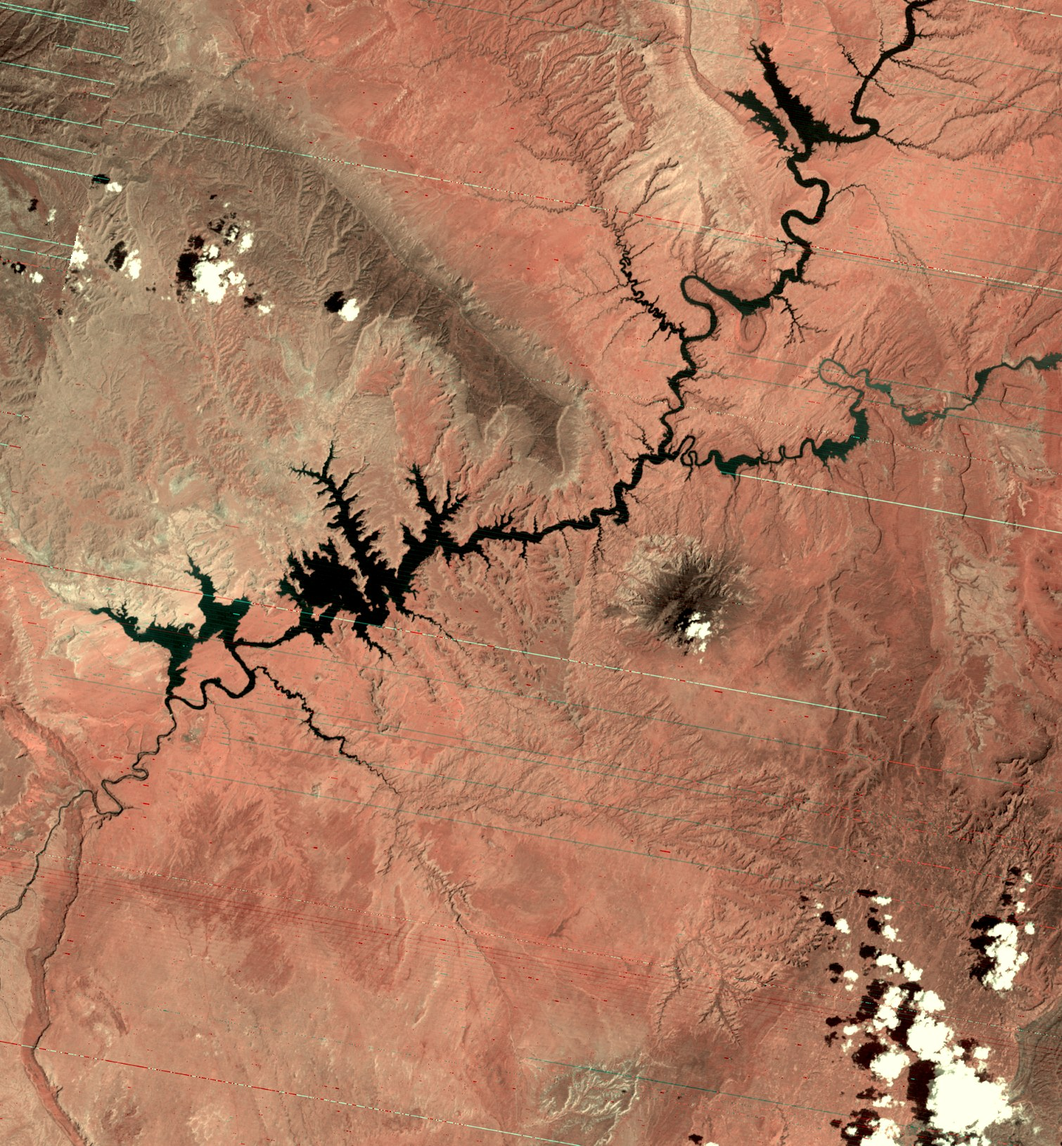
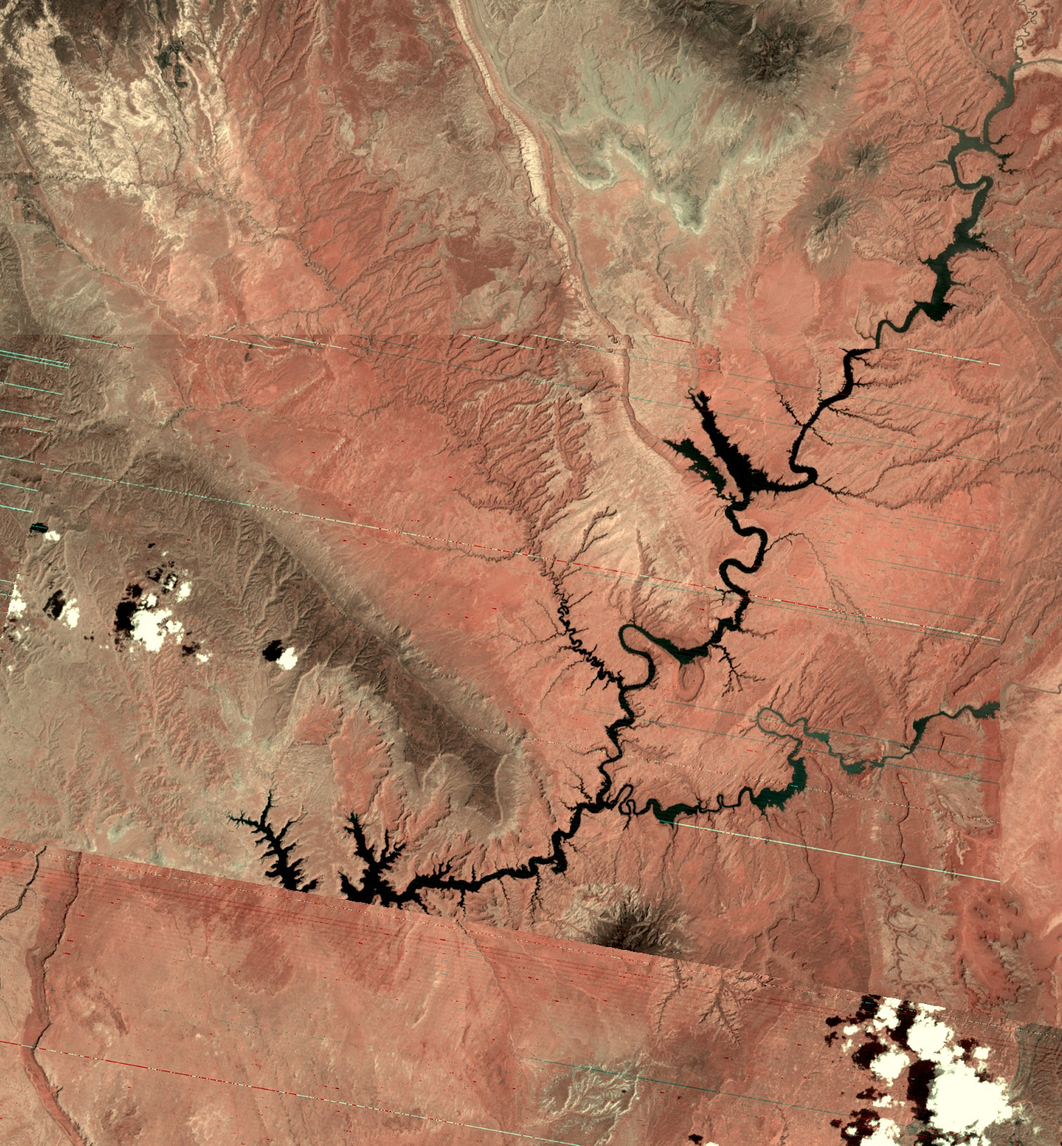
Fix early-era frame quality: alignment, gap-fill, and scene selection
- Per-scene FFT phase-correlation against the 1984 reference corrects
  km-scale L1GS georegistration errors (1973 was ~37 km off)
- Pixel-coverage verification with next-candidate gap fill (STAC footprints
  lie; some MSS products pad voids with DN~1 and an all-clear QA band):
  1982 half-frame void and the 1972 west wedge are now filled
- 2012 Landsat 7 stripes filled by mosaicking a second pass
- Season/georegistration/L7 penalties in candidate scoring; candidate
  breadth 6; all search rungs pooled; scene ids + shifts in the manifest

diff --git a/manifest.js b/manifest.js
@@ -1,1 +1,1 @@
-const TIMELAPSE = {"aoi": [-111.62, 36.85, -110.35, 37.95], "res_m": 75.0, "years": [{"year": 1972, "dates": ["1972-08-05"], "platforms": ["landsat-1"], "sensor": "MSS", "cloud": 9.0, "aoi_cloud": 0.132, "coverage": 0.844, "clear_frac": 0.732, "area_km2": 487.1, "scenes": 1}, {"year": 1973, "dates": ["1973-07-31", "1973-08-01"], "platforms": ["landsat-1"], "sensor": "MSS", "cloud": 4.0, "aoi_cloud": 0.056, "coverage": 1.0, "clear_frac": 0.943, "area_km2": 496.1, "scenes": 3}, {"year": 1974, "dates": ["1974-09-18", "1974-09-19"], "platforms": ["landsat-1"], "sensor": "MSS", "cloud": 8.0, "aoi_cloud": 0.067, "coverage": 1.0, "clear_frac": 0.933, "area_km2": 500.6, "scenes": 4}, {"year": 1975, "dates": ["1975-10-10", "1975-10-11"], "platforms": ["landsat-2"], "sensor": "MSS", "cloud": 0.0, "aoi_cloud": 0.001, "coverage": 1.0, "clear_frac": 0.999, "area_km2": 485.8, "scenes": 4}, {"year": 1976, "dates": ["1976-10-04", "1976-10-14"], "platforms": ["landsat-1", "landsat-2"], "sensor": "MSS", "cloud": 6.0, "aoi_cloud": 0.007, "coverage": 1.0, "clear_frac": 0.993, "area_km2": 457.4, "scenes": 4}, {"year": 1977, "dates": ["1977-06-13", "1977-06-14"], "platforms": ["landsat-2"], "sensor": "MSS", "cloud": 0.0, "aoi_cloud": 0.004, "coverage": 1.0, "clear_frac": 0.996, "area_km2": 470.4, "scenes": 4}, {"year": 1978, "dates": ["1978-08-28", "1978-09-25"], "platforms": ["landsat-2", "landsat-3"], "sensor": "MSS", "cloud": 2.0, "aoi_cloud": 0.001, "coverage": 1.0, "clear_frac": 0.999, "area_km2": 438.3, "scenes": 4}, {"year": 1979, "dates": ["1979-09-10", "1979-09-11"], "platforms": ["landsat-3"], "sensor": "MSS", "cloud": 5.0, "aoi_cloud": 0.005, "coverage": 1.0, "clear_frac": 0.995, "area_km2": 584.7, "scenes": 5}, {"year": 1980, "dates": ["1980-08-08", "1980-08-09"], "platforms": ["landsat-2"], "sensor": "MSS", "cloud": 6.0, "aoi_cloud": 0.0, "coverage": 1.0, "clear_frac": 1.0, "area_km2": 587.0, "scenes": 4}, {"year": 1981, "dates": ["1981-09-26", "1981-09-27"], "platforms": ["landsat-2"], "sensor": "MSS", "cloud": 0.0, "aoi_cloud": 0.002, "coverage": 1.0, "clear_frac": 0.998, "area_km2": 522.2, "scenes": 4}, {"year": 1982, "dates": ["1982-10-18", "1982-10-19"], "platforms": ["landsat-3"], "sensor": "MSS", "cloud": 12.0, "aoi_cloud": 0.035, "coverage": 1.0, "clear_frac": 0.965, "area_km2": 272.4, "scenes": 4}, {"year": 1983, "dates": ["1983-09-05", "1983-09-12"], "platforms": ["landsat-4"], "sensor": "MSS", "cloud": 0.0, "aoi_cloud": 0.0, "coverage": 1.0, "clear_frac": 1.0, "area_km2": 598.5, "scenes": 4}, {"year": 1984, "dates": ["1984-06-27", "1984-07-04"], "platforms": ["landsat-5"], "cloud": 2.0, "aoi_cloud": 0.0, "coverage": 1.0, "clear_frac": 1.0, "area_km2": 543.5, "scenes": 4}, {"year": 1985, "dates": ["1985-09-25", "1985-10-04"], "platforms": ["landsat-5"], "cloud": 0.0, "aoi_cloud": 0.0, "coverage": 1.0, "clear_frac": 1.0, "area_km2": 501.5, "scenes": 3}, {"year": 1986, "dates": ["1986-07-26", "1986-08-04"], "platforms": ["landsat-5"], "cloud": 2.0, "aoi_cloud": 0.002, "coverage": 1.0, "clear_frac": 0.998, "area_km2": 531.5, "scenes": 4}, {"year": 1987, "dates": ["1987-07-13"], "platforms": ["landsat-5"], "cloud": 3.0, "aoi_cloud": 0.004, "coverage": 1.0, "clear_frac": 0.996, "area_km2": 530.1, "scenes": 2}, {"year": 1988, "dates": ["1988-08-09", "1988-09-17"], "platforms": ["landsat-5"], "cloud": 4.0, "aoi_cloud": 0.0, "coverage": 1.0, "clear_frac": 1.0, "area_km2": 504.6, "scenes": 4}, {"year": 1989, "dates": ["1989-06-25", "1989-07-18"], "platforms": ["landsat-5"], "cloud": 1.0, "aoi_cloud": 0.0, "coverage": 1.0, "clear_frac": 1.0, "area_km2": 482.9, "scenes": 4}, {"year": 1990, "dates": ["1990-08-22"], "platforms": ["landsat-5"], "cloud": 2.0, "aoi_cloud": 0.002, "coverage": 0.984, "clear_frac": 0.981, "area_km2": 407.3, "scenes": 2}, {"year": 1991, "dates": ["1991-08-25", "1991-09-03"], "platforms": ["landsat-5"], "cloud": 2.0, "aoi_cloud": 0.002, "coverage": 1.0, "clear_frac": 0.998, "area_km2": 388.5, "scenes": 3}, {"year": 1992, "dates": ["1992-10-07", "1992-10-14"], "platforms": ["landsat-5"], "cloud": 0.0, "aoi_cloud": 0.001, "coverage": 1.0, "clear_frac": 0.999, "area_km2": 393.9, "scenes": 4}, {"year": 1993, "dates": ["1993-09-08", "1993-09-15"], "platforms": ["landsat-5"], "cloud": 1.0, "aoi_cloud": 0.003, "coverage": 1.0, "clear_frac": 0.997, "area_km2": 440.1, "scenes": 3}, {"year": 1994, "dates": ["1994-07-09", "1994-07-16"], "platforms": ["landsat-5"], "cloud": 0.0, "aoi_cloud": 0.0, "coverage": 1.0, "clear_frac": 1.0, "area_km2": 445.3, "scenes": 4}, {"year": 1995, "dates": ["1995-06-01", "1995-06-10"], "platforms": ["landsat-5"], "cloud": 6.0, "aoi_cloud": 0.006, "coverage": 1.0, "clear_frac": 0.994, "area_km2": 415.5, "scenes": 4}, {"year": 1996, "dates": ["1996-10-09"], "platforms": ["landsat-5"], "cloud": 0.0, "aoi_cloud": 0.0, "coverage": 1.0, "clear_frac": 1.0, "area_km2": 486.2, "scenes": 2}, {"year": 1997, "dates": ["1997-06-22"], "platforms": ["landsat-5"], "cloud": 0.0, "aoi_cloud": 0.0, "coverage": 1.0, "clear_frac": 1.0, "area_km2": 514.9, "scenes": 2}, {"year": 1998, "dates": ["1998-06-25"], "platforms": ["landsat-5"], "cloud": 0.0, "aoi_cloud": 0.0, "coverage": 0.997, "clear_frac": 0.996, "area_km2": 514.5, "scenes": 2}, {"year": 1999, "dates": ["1999-06-12", "1999-06-21"], "platforms": ["landsat-5"], "cloud": 4.0, "aoi_cloud": 0.002, "coverage": 1.0, "clear_frac": 0.998, "area_km2": 499.9, "scenes": 3}, {"year": 2000, "dates": ["2000-07-25", "2000-08-01"], "platforms": ["landsat-5"], "cloud": 8.0, "aoi_cloud": 0.001, "coverage": 1.0, "clear_frac": 0.999, "area_km2": 520.1, "scenes": 4}, {"year": 2001, "dates": ["2001-06-10", "2001-06-17"], "platforms": ["landsat-5"], "cloud": 9.0, "aoi_cloud": 0.001, "coverage": 1.0, "clear_frac": 0.999, "area_km2": 461.7, "scenes": 4}, {"year": 2002, "dates": ["2002-09-17", "2002-09-24"], "platforms": ["landsat-5"], "cloud": 4.0, "aoi_cloud": 0.0, "coverage": 1.0, "clear_frac": 1.0, "area_km2": 370.9, "scenes": 4}, {"year": 2003, "dates": ["2003-06-23"], "platforms": ["landsat-5"], "cloud": 3.0, "aoi_cloud": 0.005, "coverage": 0.999, "clear_frac": 0.993, "area_km2": 358.4, "scenes": 1}, {"year": 2004, "dates": ["2004-08-28"], "platforms": ["landsat-5"], "cloud": 0.0, "aoi_cloud": 0.0, "coverage": 1.0, "clear_frac": 0.999, "area_km2": 264.9, "scenes": 2}, {"year": 2005, "dates": ["2005-08-24", "2005-08-31"], "platforms": ["landsat-5"], "cloud": 7.0, "aoi_cloud": 0.003, "coverage": 1.0, "clear_frac": 0.997, "area_km2": 312.2, "scenes": 4}, {"year": 2006, "dates": ["2006-09-03"], "platforms": ["landsat-5"], "cloud": 5.0, "aoi_cloud": 0.0, "coverage": 0.999, "clear_frac": 0.998, "area_km2": 314.7, "scenes": 1}, {"year": 2007, "dates": ["2007-08-21"], "platforms": ["landsat-5"], "cloud": 0.0, "aoi_cloud": 0.0, "coverage": 1.0, "clear_frac": 0.999, "area_km2": 324.6, "scenes": 2}, {"year": 2008, "dates": ["2008-08-16", "2008-08-23"], "platforms": ["landsat-5"], "cloud": 8.0, "aoi_cloud": 0.005, "coverage": 1.0, "clear_frac": 0.995, "area_km2": 366.6, "scenes": 3}, {"year": 2009, "dates": ["2009-08-10"], "platforms": ["landsat-5"], "cloud": 0.0, "aoi_cloud": 0.0, "coverage": 1.0, "clear_frac": 0.999, "area_km2": 394.5, "scenes": 1}, {"year": 2010, "dates": ["2010-08-13"], "platforms": ["landsat-5"], "cloud": 0.0, "aoi_cloud": 0.0, "coverage": 0.998, "clear_frac": 0.996, "area_km2": 370.0, "scenes": 2}, {"year": 2011, "dates": ["2011-07-15"], "platforms": ["landsat-5"], "cloud": 0.0, "aoi_cloud": 0.0, "coverage": 0.998, "clear_frac": 0.996, "area_km2": 429.1, "scenes": 2}, {"year": 2012, "dates": ["2012-06-23"], "platforms": ["landsat-7"], "cloud": 0.0, "aoi_cloud": 0.0, "coverage": 1.0, "clear_frac": 0.827, "area_km2": 380.4, "scenes": 2}, {"year": 2013, "dates": ["2013-06-11", "2013-06-18"], "platforms": ["landsat-8"], "cloud": 5.0, "aoi_cloud": 0.004, "coverage": 1.0, "clear_frac": 0.996, "area_km2": 263.5, "scenes": 4}, {"year": 2014, "dates": ["2014-09-25"], "platforms": ["landsat-8"], "cloud": 2.0, "aoi_cloud": 0.0, "coverage": 0.998, "clear_frac": 0.997, "area_km2": 309.8, "scenes": 3}, {"year": 2015, "dates": ["2015-10-14"], "platforms": ["landsat-8"], "cloud": 0.0, "aoi_cloud": 0.0, "coverage": 0.997, "clear_frac": 0.996, "area_km2": 277.4, "scenes": 3}, {"year": 2016, "dates": ["2016-06-26"], "platforms": ["landsat-8"], "cloud": 0.6, "aoi_cloud": 0.001, "coverage": 0.997, "clear_frac": 0.996, "area_km2": 333.5, "scenes": 3}, {"year": 2017, "dates": ["2017-07-15"], "platforms": ["landsat-8"], "cloud": 6.4, "aoi_cloud": 0.008, "coverage": 0.998, "clear_frac": 0.99, "area_km2": 372.0, "scenes": 3}, {"year": 2018, "dates": ["2018-09-20"], "platforms": ["landsat-8"], "cloud": 0.1, "aoi_cloud": 0.005, "coverage": 0.998, "clear_frac": 0.993, "area_km2": 275.5, "scenes": 3}, {"year": 2019, "dates": ["2019-07-21"], "platforms": ["landsat-8"], "cloud": 0.4, "aoi_cloud": 0.0, "coverage": 0.998, "clear_frac": 0.998, "area_km2": 350.7, "scenes": 3}, {"year": 2020, "dates": ["2020-08-08"], "platforms": ["landsat-8"], "cloud": 5.5, "aoi_cloud": 0.0, "coverage": 0.998, "clear_frac": 0.998, "area_km2": 280.8, "scenes": 3}, {"year": 2021, "dates": ["2021-07-10"], "platforms": ["landsat-8"], "cloud": 1.8, "aoi_cloud": 0.007, "coverage": 0.997, "clear_frac": 0.99, "area_km2": 226.8, "scenes": 2}, {"year": 2022, "dates": ["2022-08-30", "2022-08-31"], "platforms": ["landsat-8", "landsat-9"], "cloud": 9.4, "aoi_cloud": 0.0, "coverage": 1.0, "clear_frac": 1.0, "area_km2": 183.8, "scenes": 5}, {"year": 2023, "dates": ["2023-09-26"], "platforms": ["landsat-9"], "cloud": 0.0, "aoi_cloud": 0.0, "coverage": 0.998, "clear_frac": 0.997, "area_km2": 242.6, "scenes": 3}, {"year": 2024, "dates": ["2024-10-06"], "platforms": ["landsat-8"], "cloud": 0.2, "aoi_cloud": 0.0, "coverage": 0.998, "clear_frac": 0.997, "area_km2": 236.8, "scenes": 3}, {"year": 2025, "dates": ["2025-07-29"], "platforms": ["landsat-9"], "cloud": 2.0, "aoi_cloud": 0.008, "coverage": 0.998, "clear_frac": 0.99, "area_km2": 207.4, "scenes": 2}, {"year": 2026, "dates": ["2026-06-06"], "platforms": ["landsat-8"], "cloud": 0.6, "aoi_cloud": 0.003, "coverage": 0.996, "clear_frac": 0.993, "area_km2": 150.7, "scenes": 3}]};
+const TIMELAPSE = {"aoi": [-111.62, 36.85, -110.35, 37.95], "res_m": 75.0, "years": [{"year": 1972, "dates": ["1972-08-05", "1972-08-06"], "platforms": ["landsat-1"], "sensor": "MSS", "cloud": 13.0, "aoi_cloud": 0.148, "coverage": 1.0, "clear_frac": 0.852, "area_km2": 421.0, "scenes": 4, "scene_ids": ["LM01_L1TP_039034_19720805_02_T1", "LM01_L1TP_039035_19720805_02_T2", "LM01_L1TP_040033_19720806_02_T2", "LM01_L1TP_040034_19720806_02_T2"], "aligned_px": [[0, 0], [0, 0], [0, 0], [0, 0]]}, {"year": 1973, "dates": ["1973-06-25", "1973-06-26", "1973-07-31", "1973-08-01"], "platforms": ["landsat-1"], "sensor": "MSS", "cloud": 27.0, "aoi_cloud": 0.056, "coverage": 1.0, "clear_frac": 0.892, "area_km2": 389.1, "scenes": 6, "scene_ids": ["LM01_L1GS_039034_19730731_02_T2", "LM01_L1GS_039035_19730731_02_T2", "LM01_L1GS_040034_19730801_02_T2", "LM01_L1TP_039033_19730625_02_T2", "LM01_L1TP_039034_19730625_02_T2", "LM01_L1TP_040034_19730626_02_T2"], "aligned_px": [[0, 0], [496, -88], [476, -96], [0, 0], [0, 0], [0, 0]]}, {"year": 1974, "dates": ["1974-07-26", "1974-07-27"], "platforms": ["landsat-1"], "sensor": "MSS", "cloud": 10.0, "aoi_cloud": 0.074, "coverage": 1.0, "clear_frac": 0.926, "area_km2": 550.0, "scenes": 3, "scene_ids": ["LM01_L1TP_039034_19740726_02_T2", "LM01_L1TP_039035_19740726_02_T2", "LM01_L1TP_040034_19740727_02_T2"], "aligned_px": [[0, 0], [0, 0], [0, 0]]}, {"year": 1975, "dates": ["1975-10-10", "1975-10-11"], "platforms": ["landsat-2"], "sensor": "MSS", "cloud": 0.0, "aoi_cloud": 0.001, "coverage": 1.0, "clear_frac": 0.999, "area_km2": 485.8, "scenes": 4}, {"year": 1976, "dates": ["1976-10-04", "1976-10-14"], "platforms": ["landsat-1", "landsat-2"], "sensor": "MSS", "cloud": 6.0, "aoi_cloud": 0.007, "coverage": 1.0, "clear_frac": 0.993, "area_km2": 457.4, "scenes": 4}, {"year": 1977, "dates": ["1977-06-13", "1977-06-14"], "platforms": ["landsat-2"], "sensor": "MSS", "cloud": 0.0, "aoi_cloud": 0.004, "coverage": 1.0, "clear_frac": 0.996, "area_km2": 470.4, "scenes": 4}, {"year": 1978, "dates": ["1978-08-28", "1978-09-25"], "platforms": ["landsat-2", "landsat-3"], "sensor": "MSS", "cloud": 2.0, "aoi_cloud": 0.001, "coverage": 1.0, "clear_frac": 0.999, "area_km2": 438.3, "scenes": 4}, {"year": 1979, "dates": ["1979-09-10", "1979-09-11"], "platforms": ["landsat-3"], "sensor": "MSS", "cloud": 5.0, "aoi_cloud": 0.005, "coverage": 1.0, "clear_frac": 0.995, "area_km2": 584.7, "scenes": 5}, {"year": 1980, "dates": ["1980-08-08", "1980-08-09"], "platforms": ["landsat-2"], "sensor": "MSS", "cloud": 6.0, "aoi_cloud": 0.0, "coverage": 1.0, "clear_frac": 1.0, "area_km2": 587.0, "scenes": 4}, {"year": 1981, "dates": ["1981-09-26", "1981-09-27"], "platforms": ["landsat-2"], "sensor": "MSS", "cloud": 0.0, "aoi_cloud": 0.002, "coverage": 1.0, "clear_frac": 0.998, "area_km2": 522.2, "scenes": 4}, {"year": 1982, "dates": ["1982-10-18", "1982-10-19"], "platforms": ["landsat-3"], "sensor": "MSS", "cloud": 12.0, "aoi_cloud": 0.035, "coverage": 1.0, "clear_frac": 0.935, "area_km2": 511.7, "scenes": 4, "scene_ids": ["LM03_L1TP_039034_19821018_02_T2", "LM03_L1TP_039035_19821018_02_T2", "LM03_L1TP_040033_19821019_02_T2", "LM03_L1TP_040034_19821019_02_T2"], "aligned_px": [[0, 0], [0, 0], [0, 0], [0, 0]]}, {"year": 1983, "dates": ["1983-09-05", "1983-09-12"], "platforms": ["landsat-4"], "sensor": "MSS", "cloud": 0.0, "aoi_cloud": 0.0, "coverage": 1.0, "clear_frac": 1.0, "area_km2": 598.5, "scenes": 4}, {"year": 1984, "dates": ["1984-06-27", "1984-07-04"], "platforms": ["landsat-5"], "cloud": 2.0, "aoi_cloud": 0.0, "coverage": 1.0, "clear_frac": 1.0, "area_km2": 543.5, "scenes": 4}, {"year": 1985, "dates": ["1985-09-25", "1985-10-04"], "platforms": ["landsat-5"], "cloud": 0.0, "aoi_cloud": 0.0, "coverage": 1.0, "clear_frac": 1.0, "area_km2": 501.5, "scenes": 3}, {"year": 1986, "dates": ["1986-07-26", "1986-08-04"], "platforms": ["landsat-5"], "cloud": 2.0, "aoi_cloud": 0.002, "coverage": 1.0, "clear_frac": 0.998, "area_km2": 531.5, "scenes": 4}, {"year": 1987, "dates": ["1987-07-13"], "platforms": ["landsat-5"], "cloud": 3.0, "aoi_cloud": 0.004, "coverage": 1.0, "clear_frac": 0.996, "area_km2": 530.1, "scenes": 2}, {"year": 1988, "dates": ["1988-08-09", "1988-09-17"], "platforms": ["landsat-5"], "cloud": 4.0, "aoi_cloud": 0.0, "coverage": 1.0, "clear_frac": 1.0, "area_km2": 504.6, "scenes": 4}, {"year": 1989, "dates": ["1989-06-25", "1989-07-18"], "platforms": ["landsat-5"], "cloud": 1.0, "aoi_cloud": 0.0, "coverage": 1.0, "clear_frac": 1.0, "area_km2": 482.9, "scenes": 4}, {"year": 1990, "dates": ["1990-08-22"], "platforms": ["landsat-5"], "cloud": 2.0, "aoi_cloud": 0.002, "coverage": 0.984, "clear_frac": 0.981, "area_km2": 407.3, "scenes": 2}, {"year": 1991, "dates": ["1991-08-25", "1991-09-03"], "platforms": ["landsat-5"], "cloud": 2.0, "aoi_cloud": 0.002, "coverage": 1.0, "clear_frac": 0.998, "area_km2": 388.5, "scenes": 3}, {"year": 1992, "dates": ["1992-10-07", "1992-10-14"], "platforms": ["landsat-5"], "cloud": 0.0, "aoi_cloud": 0.001, "coverage": 1.0, "clear_frac": 0.999, "area_km2": 393.9, "scenes": 4}, {"year": 1993, "dates": ["1993-10-01", "1993-10-10"], "platforms": ["landsat-5"], "sensor": "TM/OLI", "cloud": 8.0, "aoi_cloud": 0.003, "coverage": 1.0, "clear_frac": 0.997, "area_km2": 430.6, "scenes": 4, "scene_ids": ["LT05_L2SP_036034_19931010_02_T1", "LT05_L2SP_036035_19931010_02_T1", "LT05_L2SP_037034_19931001_02_T1", "LT05_L2SP_037035_19931001_02_T1"]}, {"year": 1994, "dates": ["1994-07-09", "1994-07-16"], "platforms": ["landsat-5"], "cloud": 0.0, "aoi_cloud": 0.0, "coverage": 1.0, "clear_frac": 1.0, "area_km2": 445.3, "scenes": 4}, {"year": 1995, "dates": ["1995-06-01", "1995-06-10"], "platforms": ["landsat-5"], "cloud": 6.0, "aoi_cloud": 0.006, "coverage": 1.0, "clear_frac": 0.994, "area_km2": 415.5, "scenes": 4}, {"year": 1996, "dates": ["1996-10-09"], "platforms": ["landsat-5"], "cloud": 0.0, "aoi_cloud": 0.0, "coverage": 1.0, "clear_frac": 1.0, "area_km2": 486.2, "scenes": 2}, {"year": 1997, "dates": ["1997-06-22"], "platforms": ["landsat-5"], "cloud": 0.0, "aoi_cloud": 0.0, "coverage": 1.0, "clear_frac": 1.0, "area_km2": 514.9, "scenes": 2}, {"year": 1998, "dates": ["1998-06-25"], "platforms": ["landsat-5"], "cloud": 0.0, "aoi_cloud": 0.0, "coverage": 0.997, "clear_frac": 0.996, "area_km2": 514.5, "scenes": 2}, {"year": 1999, "dates": ["1999-06-12", "1999-06-21"], "platforms": ["landsat-5"], "cloud": 4.0, "aoi_cloud": 0.002, "coverage": 1.0, "clear_frac": 0.998, "area_km2": 499.9, "scenes": 3}, {"year": 2000, "dates": ["2000-07-25", "2000-08-01"], "platforms": ["landsat-5"], "cloud": 8.0, "aoi_cloud": 0.001, "coverage": 1.0, "clear_frac": 0.999, "area_km2": 520.1, "scenes": 4}, {"year": 2001, "dates": ["2001-06-10", "2001-06-17"], "platforms": ["landsat-5"], "cloud": 9.0, "aoi_cloud": 0.001, "coverage": 1.0, "clear_frac": 0.999, "area_km2": 461.7, "scenes": 4}, {"year": 2002, "dates": ["2002-09-17", "2002-09-24"], "platforms": ["landsat-5"], "cloud": 4.0, "aoi_cloud": 0.0, "coverage": 1.0, "clear_frac": 1.0, "area_km2": 370.9, "scenes": 4}, {"year": 2003, "dates": ["2003-06-23"], "platforms": ["landsat-5"], "cloud": 3.0, "aoi_cloud": 0.005, "coverage": 0.999, "clear_frac": 0.993, "area_km2": 358.4, "scenes": 1}, {"year": 2004, "dates": ["2004-08-28"], "platforms": ["landsat-5"], "cloud": 0.0, "aoi_cloud": 0.0, "coverage": 1.0, "clear_frac": 0.999, "area_km2": 264.9, "scenes": 2}, {"year": 2005, "dates": ["2005-08-24", "2005-08-31"], "platforms": ["landsat-5"], "cloud": 7.0, "aoi_cloud": 0.003, "coverage": 1.0, "clear_frac": 0.997, "area_km2": 312.2, "scenes": 4}, {"year": 2006, "dates": ["2006-09-03"], "platforms": ["landsat-5"], "cloud": 5.0, "aoi_cloud": 0.0, "coverage": 0.999, "clear_frac": 0.998, "area_km2": 314.7, "scenes": 1}, {"year": 2007, "dates": ["2007-08-21"], "platforms": ["landsat-5"], "cloud": 0.0, "aoi_cloud": 0.0, "coverage": 1.0, "clear_frac": 0.999, "area_km2": 324.6, "scenes": 2}, {"year": 2008, "dates": ["2008-08-16", "2008-08-23"], "platforms": ["landsat-5"], "cloud": 8.0, "aoi_cloud": 0.005, "coverage": 1.0, "clear_frac": 0.995, "area_km2": 366.6, "scenes": 3}, {"year": 2009, "dates": ["2009-08-10"], "platforms": ["landsat-5"], "cloud": 0.0, "aoi_cloud": 0.0, "coverage": 1.0, "clear_frac": 0.999, "area_km2": 394.5, "scenes": 1}, {"year": 2010, "dates": ["2010-08-13"], "platforms": ["landsat-5"], "cloud": 0.0, "aoi_cloud": 0.0, "coverage": 0.998, "clear_frac": 0.996, "area_km2": 370.0, "scenes": 2}, {"year": 2011, "dates": ["2011-07-15"], "platforms": ["landsat-5"], "cloud": 0.0, "aoi_cloud": 0.0, "coverage": 0.998, "clear_frac": 0.996, "area_km2": 429.1, "scenes": 2}, {"year": 2012, "dates": ["2012-06-23", "2012-09-27"], "platforms": ["landsat-7"], "sensor": "TM/OLI", "cloud": 6.0, "aoi_cloud": 0.0, "coverage": 0.997, "clear_frac": 0.996, "area_km2": 369.4, "scenes": 4, "scene_ids": ["LE07_L2SP_037034_20120623_02_T1", "LE07_L2SP_037034_20120927_02_T1", "LE07_L2SP_037035_20120623_02_T1", "LE07_L2SP_037035_20120927_02_T1"], "aligned_px": []}, {"year": 2013, "dates": ["2013-06-11", "2013-06-18"], "platforms": ["landsat-8"], "cloud": 5.0, "aoi_cloud": 0.004, "coverage": 1.0, "clear_frac": 0.996, "area_km2": 263.5, "scenes": 4}, {"year": 2014, "dates": ["2014-09-25"], "platforms": ["landsat-8"], "cloud": 2.0, "aoi_cloud": 0.0, "coverage": 0.998, "clear_frac": 0.997, "area_km2": 309.8, "scenes": 3}, {"year": 2015, "dates": ["2015-10-14"], "platforms": ["landsat-8"], "cloud": 0.0, "aoi_cloud": 0.0, "coverage": 0.997, "clear_frac": 0.996, "area_km2": 277.4, "scenes": 3}, {"year": 2016, "dates": ["2016-06-26"], "platforms": ["landsat-8"], "cloud": 0.6, "aoi_cloud": 0.001, "coverage": 0.997, "clear_frac": 0.996, "area_km2": 333.5, "scenes": 3}, {"year": 2017, "dates": ["2017-07-15"], "platforms": ["landsat-8"], "cloud": 6.4, "aoi_cloud": 0.008, "coverage": 0.998, "clear_frac": 0.99, "area_km2": 372.0, "scenes": 3}, {"year": 2018, "dates": ["2018-09-20"], "platforms": ["landsat-8"], "cloud": 0.1, "aoi_cloud": 0.005, "coverage": 0.998, "clear_frac": 0.993, "area_km2": 275.5, "scenes": 3}, {"year": 2019, "dates": ["2019-07-21"], "platforms": ["landsat-8"], "cloud": 0.4, "aoi_cloud": 0.0, "coverage": 0.998, "clear_frac": 0.998, "area_km2": 350.7, "scenes": 3}, {"year": 2020, "dates": ["2020-08-08"], "platforms": ["landsat-8"], "cloud": 5.5, "aoi_cloud": 0.0, "coverage": 0.998, "clear_frac": 0.998, "area_km2": 280.8, "scenes": 3}, {"year": 2021, "dates": ["2021-07-10"], "platforms": ["landsat-8"], "cloud": 1.8, "aoi_cloud": 0.007, "coverage": 0.997, "clear_frac": 0.99, "area_km2": 226.8, "scenes": 2}, {"year": 2022, "dates": ["2022-08-30", "2022-08-31"], "platforms": ["landsat-8", "landsat-9"], "cloud": 9.4, "aoi_cloud": 0.0, "coverage": 1.0, "clear_frac": 1.0, "area_km2": 183.8, "scenes": 5}, {"year": 2023, "dates": ["2023-09-26"], "platforms": ["landsat-9"], "cloud": 0.0, "aoi_cloud": 0.0, "coverage": 0.998, "clear_frac": 0.997, "area_km2": 242.6, "scenes": 3}, {"year": 2024, "dates": ["2024-10-06"], "platforms": ["landsat-8"], "cloud": 0.2, "aoi_cloud": 0.0, "coverage": 0.998, "clear_frac": 0.997, "area_km2": 236.8, "scenes": 3}, {"year": 2025, "dates": ["2025-07-29"], "platforms": ["landsat-9"], "cloud": 2.0, "aoi_cloud": 0.008, "coverage": 0.998, "clear_frac": 0.99, "area_km2": 207.4, "scenes": 2}, {"year": 2026, "dates": ["2026-06-06"], "platforms": ["landsat-8"], "cloud": 0.6, "aoi_cloud": 0.003, "coverage": 0.996, "clear_frac": 0.993, "area_km2": 150.7, "scenes": 3}]};

diff --git a/fetch_imagery.py b/fetch_imagery.py
@@ -127,6 +127,17 @@ def build_set(primary_idx, scored, aoi_poly):
     return chosen, cov
 
 
+def geo_ok(it):
+    """Precision-registered? L1GS/L1GT (systematic georegistration, off by up
+    to kilometers) and modern Tier-2 scenes make the timelapse jump."""
+    corr = (it.properties.get("landsat:correction") or "").upper()
+    if corr == "L1TP":
+        return True
+    if corr.startswith("L1G"):
+        return False
+    return it.properties.get("landsat:collection_category") != "T2"
+
+
 def read_qa_bad_frac(items, transform, width, height):
     """Mosaic qa_pixel at 1/4 resolution over the AOI; return fraction of AOI
     pixels flagged cloud/cirrus/shadow."""
@@ -150,15 +161,18 @@ def read_qa_bad_frac(items, transform, width, height):
     return float((bad & valid).sum() / valid.sum())
 
 
-def pick_items(items, aoi_poly, transform, width, height):
-    """Evaluate up to 4 candidate scene-sets; score each by cloud/shadow inside
-    the AOI (per the QA band). Returns ranked [(aoi_bad_frac, -coverage, items)],
-    best first."""
+def pick_items(items, aoi_poly, transform, width, height, mss=False):
+    """Evaluate up to 4 candidate scene-sets. Each is scored by cloud/shadow
+    inside the AOI (per the QA band) plus a penalty for scenes without
+    precision georegistration — heavy for the modern era, mild for MSS where
+    per-scene phase correlation can rescue systematic offsets. Returns ranked
+    [(score, -coverage, items, aoi_bad_frac)], best first."""
     if not items:
         return []
+    geo_weight = 0.08 if mss else 0.5
     scored = score_groups(items, aoi_poly)
     candidates, seen = [], set()
-    for i in range(min(4, len(scored))):
+    for i in range(min(6, len(scored))):
         chosen, cov = build_set(i, scored, aoi_poly)
         sig = tuple(sorted(it.id for it in chosen))
         if sig not in seen:
@@ -173,9 +187,18 @@ def pick_items(items, aoi_poly, transform, width, height):
             bad = max(
                 it.properties.get("eo:cloud_cover", 100) for it in chosen
             ) / 100.0
-        results.append((bad, -cov, chosen))
-        if bad < 0.01:
-            break  # essentially clear over the lake; stop probing
+        geo_bad = sum(1 for it in chosen if not geo_ok(it)) / len(chosen)
+        l7_frac = sum(
+            1 for it in chosen if it.properties.get("platform") == "landsat-7"
+        ) / len(chosen)
+        # out-of-season scenes (snow, low sun) are a last resort only
+        winter_frac = sum(
+            1 for it in chosen if not (5 <= it.datetime.month <= 10)
+        ) / len(chosen)
+        score = bad + geo_weight * geo_bad + 0.06 * l7_frac + 0.3 * winter_frac
+        results.append((score, -cov, chosen, bad))
+        if score < 0.01:
+            break  # clear and registered; stop probing
     results.sort(key=lambda t: (t[0], t[1]))
     return results
 
@@ -219,13 +242,16 @@ def read_mosaic(items, transform, width, height):
     return sr, valid, clear
 
 
-def read_mosaic_mss(items, transform, width, height):
+def read_mosaic_mss(items, transform, width, height, ref_q=None):
     """MSS path: per scene, convert uint8 DN -> TOA reflectance using the scene's
-    radiometric calibration and sun elevation, then mosaic (first-valid wins).
-    Returns (bands[3,H,W]: red, green, nir09; valid; clear)."""
+    radiometric calibration and sun elevation, co-register the scene against the
+    1984 reference (per scene — a mosaic-level fit would let the majority
+    outvote one shifted scene), then mosaic (first-valid wins).
+    Returns (bands[3,H,W]: red, green, nir09; valid; clear; shifts)."""
     refl = np.zeros((len(MSS_BANDS), height, width), dtype=np.float32)
     filled = np.zeros((height, width), dtype=bool)
     qa = np.zeros((height, width), dtype=np.uint16)
+    shifts = []
     for it in items:
         signed = planetary_computer.sign(it)
         sun_el = np.radians(it.properties.get("view:sun_elevation", 60.0))
@@ -249,20 +275,90 @@ def read_mosaic_mss(items, transform, width, height):
             )
             bv = dn > 0
             item_valid = bv if item_valid is None else (item_valid & bv)
+            item_any = dn > 2 if bi == 0 else (item_any | (dn > 2))
         with rasterio.open(signed.assets["qa_pixel"].href) as src:
             with WarpedVRT(
                 src, crs=DST_CRS, transform=transform, width=width, height=height,
                 resampling=Resampling.nearest, src_nodata=1, nodata=1,
             ) as vrt:
                 qdata = vrt.read(1)
+        # some MSS products pad missing regions with DN~1-2 and a broken
+        # all-clear QA band; real terrain never has every band that dark
+        item_valid &= (qdata > 1) & item_any
+        if ref_q is not None:
+            dy, dx = estimate_shift(ref_q, item_refl[0], item_valid)
+            if (dy, dx) != (0, 0):
+                item_refl = shift2d(item_refl, dy, dx, 0.0)
+                item_valid = shift2d(item_valid, dy, dx, False)
+                qdata = shift2d(qdata, dy, dx, 1)
+            shifts.append([int(dy), int(dx)])
         hole = ~filled & item_valid
         refl[:, hole] = item_refl[:, hole]
         filled |= item_valid
-        qhole = qa <= 1
+        qhole = (qa <= 1) & item_valid
         qa[qhole] = qdata[qhole]
     refl = np.clip(refl, 0.0, 1.0)
     clear = filled & ((qa & QA_BAD_BITS) == 0)
-    return refl, filled, clear
+    return refl, filled, clear, shifts
+
+
+ALIGN_FACTOR = 4
+
+
+def load_align_reference(frames_dir, height, width):
+    """Grayscale 1984 TM frame (gold-standard georegistration) at quarter
+    resolution, mean-subtracted — the target scenes correlate against."""
+    from PIL import Image as PILImage
+
+    ref_path = frames_dir / "1984.jpg"
+    if not ref_path.exists():
+        return None
+    hq, wq = height // ALIGN_FACTOR, width // ALIGN_FACTOR
+    ref = np.asarray(
+        PILImage.open(ref_path).convert("L").resize((wq, hq)), dtype=np.float32
+    )
+    return ref - ref.mean()
+
+
+def estimate_shift(ref_q, band, valid):
+    """FFT phase correlation of one scene's red band (masked, quarter-res)
+    against the reference. Early L1GS products carry km-scale systematic
+    offsets; desert terrain gives a strong peak. Returns full-res (dy, dx)
+    to apply, or (0, 0) if correlation is out of range."""
+    f = ALIGN_FACTOR
+    hq, wq = ref_q.shape
+    mov = band[: hq * f, : wq * f].reshape(hq, f, wq, f).mean(axis=(1, 3))
+    vq = valid[: hq * f, : wq * f].reshape(hq, f, wq, f).mean(axis=(1, 3)) > 0.5
+    if vq.mean() < 0.1:
+        return 0, 0  # too little coverage to correlate
+    mov = np.where(vq, mov, mov[vq].mean())
+    mov = mov - mov.mean()
+    A = np.fft.rfft2(ref_q)
+    B = np.fft.rfft2(mov)
+    R = A * np.conj(B)
+    R /= np.abs(R) + 1e-9
+    c = np.fft.irfft2(R, ref_q.shape)
+    dy, dx = np.unravel_index(int(np.argmax(c)), c.shape)
+    if dy > hq // 2:
+        dy -= hq
+    if dx > wq // 2:
+        dx -= wq
+    # 1970s ephemeris errors reach tens of km — clamp only near the FFT
+    # wrap-around ambiguity limit
+    if abs(dy) > hq // 3 or abs(dx) > wq // 3:
+        return 0, 0  # implausible; leave unshifted
+    return int(dy) * f, int(dx) * f
+
+
+def shift2d(arr, dy, dx, fill):
+    if dy == 0 and dx == 0:
+        return arr
+    h, w = arr.shape[-2], arr.shape[-1]
+    out = np.full_like(arr, fill)
+    ys0, ys1 = max(0, dy), min(h, h + dy)
+    xs0, xs1 = max(0, dx), min(w, w + dx)
+    out[..., ys0:ys1, xs0:xs1] = arr[..., ys0 - dy : ys1 - dy, xs0 - dx : xs1 - dx]
+    return out
 
 
 def render(sr, valid, mss=False):
@@ -336,52 +432,75 @@ def process_year(catalog, year, aoi_poly, transform, width, height):
             (("05-01", "10-31"), 60, None),
         ]
         collection = COLLECTION
-    all_items, seen_items, ranked = [], set(), []
+    # pool every rung up front: early-stopping on the first passable rung can
+    # hide the date that pixel-coverage fills or dropout retries will need
+    all_items, seen_items = [], set()
     for season, cloud, platforms in attempts:
         for it in search_year(catalog, year, season, cloud, platforms, collection):
             if it.id not in seen_items:
                 seen_items.add(it.id)
                 all_items.append(it)
-        ranked = [
-            r
-            for r in pick_items(all_items, aoi_poly, transform, width, height)
-            if -r[1] >= 0.7
-        ]
-        if ranked and ranked[0][0] < 0.03 and -ranked[0][1] >= 0.985:
-            break
-    if not ranked:
+    if not all_items:
         return None
+
+    ref_q = (
+        load_align_reference(Path(__file__).parent / "frames", height, width)
+        if mss
+        else None
+    )
+
+    def read_set(items):
+        if mss:
+            return read_mosaic_mss(items, transform, width, height, ref_q)
+        return read_mosaic(items, transform, width, height) + ([],)
+
     # MSS detector-dropout streaks can masquerade as water; if the area is
     # physically impossible for the era, retry with the tried dates excluded.
     # (Pool first neared full in 1979; before that ~600 km2 is the ceiling.)
     max_area = (600.0 if year <= 1978 else MSS_MAX_PLAUSIBLE_KM2) if mss else None
     tries, excluded = [], set()
-    for _ in range(3 if mss else 1):
+    for _ in range(4 if mss else 1):
         pool = [it for it in all_items if it.id not in excluded]
         cands = [
             r
-            for r in pick_items(pool, aoi_poly, transform, width, height)
+            for r in pick_items(pool, aoi_poly, transform, width, height, mss)
             if -r[1] >= 0.7
         ]
         if not cands:
             break
-        aoi_bad, neg_cov, chosen = cands[0]
-        if mss:
-            sr, valid, clear = read_mosaic_mss(chosen, transform, width, height)
-        else:
-            sr, valid, clear = read_mosaic(chosen, transform, width, height)
+        _, neg_cov, chosen, aoi_bad = cands[0]
+        chosen = list(chosen)
+        sr, valid, clear, shift_px = read_set(chosen)
+        # STAC footprints lie: verify PIXEL coverage, and fill real holes with
+        # the next-best candidate sets (prefer registered, low-cloud fills)
+        for fill in cands[1:]:
+            if float(valid.mean()) >= 0.96 or len(chosen) >= 8:
+                break
+            have = {c.id for c in chosen}
+            extra = [it for it in fill[2] if it.id not in have]
+            if not extra:
+                continue
+            chosen += extra
+            sr, valid, clear, shift_px = read_set(chosen)
+        pixcov = float(valid.mean())
         img = render(sr, valid, mss=mss)
         area, clear_frac = water_area_km2(sr, clear, mss=mss)
         healthy = bands_healthy(sr, valid) if mss else True
-        tries.append((healthy, area, img, clear_frac, aoi_bad, neg_cov, chosen))
-        if healthy and (max_area is None or area <= max_area):
+        tries.append((healthy, pixcov, area, img, clear_frac, aoi_bad, chosen, shift_px))
+        print(
+            f"  try: {sorted({i.datetime.date().isoformat() for i in chosen})} "
+            f"healthy={healthy} pixcov={pixcov:.3f} area={area} shift={shift_px}",
+            flush=True,
+        )
+        if healthy and pixcov >= 0.9 and (max_area is None or area <= max_area):
             break
         excluded.update(it.id for it in chosen)
-    # accept the first healthy+plausible try, else the least-broken one
+    if not tries:
+        return None
+    # accept the first healthy+complete+plausible try, else the least-broken one
     cap = max_area if max_area is not None else float("inf")
-    tries.sort(key=lambda t: (not t[0], t[1] > cap, t[1]))
-    _, area, img, clear_frac, aoi_bad, neg_cov, chosen = tries[0]
-    cov = -neg_cov
+    tries.sort(key=lambda t: (not t[0], t[1] < 0.9, t[2] > cap, -t[1], t[2]))
+    _, pixcov, area, img, clear_frac, aoi_bad, chosen, shift_px = tries[0]
     dates = sorted({it.datetime.date().isoformat() for it in chosen})
     platforms_used = sorted({it.properties.get("platform", "?") for it in chosen})
     clouds = [it.properties.get("eo:cloud_cover", -1) for it in chosen]
@@ -394,10 +513,12 @@ def process_year(catalog, year, aoi_poly, transform, width, height):
             "sensor": "MSS" if mss else "TM/OLI",
             "cloud": round(max(clouds), 1),
             "aoi_cloud": round(aoi_bad, 3),
-            "coverage": round(cov, 3),
+            "coverage": round(pixcov, 3),
             "clear_frac": clear_frac,
             "area_km2": area,
             "scenes": len(chosen),
+            "scene_ids": sorted(it.id for it in chosen),
+            "aligned_px": list(shift_px),
         },
     }
 
@@ -463,7 +584,8 @@ def main():
             print(
                 f"{year}: {m['scenes']} scene(s) {m['dates']} {m['platforms']} "
                 f"cloud={m['cloud']}% lake_cloud={m['aoi_cloud']} cov={m['coverage']} "
-                f"area={m['area_km2']} km2 ({time.time() - t0:.0f}s)",
+                f"area={m['area_km2']} km2 align={m['aligned_px']} "
+                f"({time.time() - t0:.0f}s)",
                 flush=True,
             )
     print("done", flush=True)
